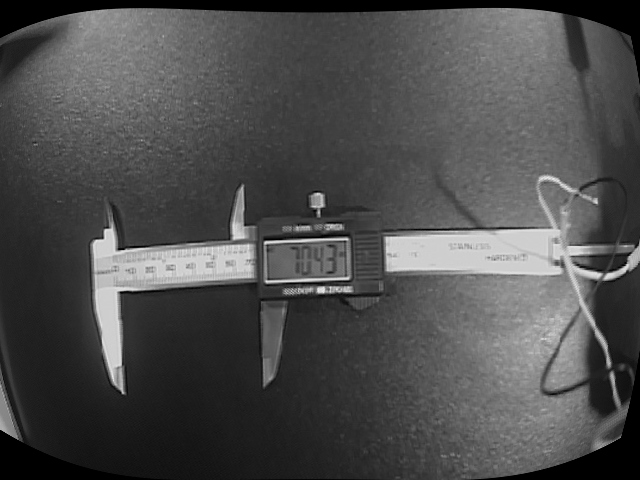
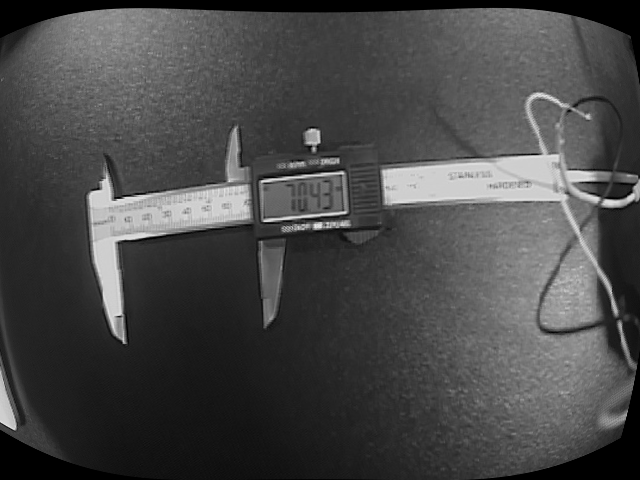
Improved refrence object length calculation and solved the problem due to different orientation as in test21/23.png

diff --git a/Distortion Processing/test.py b/Distortion Processing/test.py
@@ -1,130 +1,26 @@
-#!/usr/bin/env python
+from rospy import *
 
-'''
-camera calibration for distorted images with chess board samples
-reads distorted images, calculates the calibration and write undistorted images
-usage:
-    calibrate.py [--debug <output path>] [--square_size] [<image mask>]
-default values:
-    --debug:    ./output/
-    --square_size: 1.0
-    <image mask> defaults to ../data/left*.jpg
-'''
+if(color_red==True):
+    
+    while(area_red!=True and shapeIdentifier(shapeIdentifier('TRI_R','RECT_R',1,0)):
+        
+            rosservice call /joint_command -- rad servo_id i #Create a for loop to increment 'i' from -pi/2 to pi/2
+            
+    if(area_red==True and shapeIdentifier()==True):
+        
+        rosservice call /joint_command -- rad 1 2.0 #Open Gripper which is Servo 1
+        
+        while(area_red>400 and area<800):
+            rosservice call /joint_command -- rad 3 2.0 #Move servo 3 closer to the red colour until area==800
+        rosservice call /joint_command -- rad 1 1.0 #Close Gripper as it should now have the red object
+        
+    if(area_red!=0): # To check if the red object has been picked up
+        #Repeat Line 5-9, until the red object is picked up
+    rosservice call /joint_command -- rad 2 2.0 #Make the arm return to the initial position(2.0)
+    rosservice call /joint_command -- rad 3 2.0 #Make the arm return to the initial position(2.0)
+    rosservice call /joint_command -- rad 3 2.8 #Turn the arm 90˚ to reach the platform where the component can be dropped
+    rosservice call /joint_command -- rad 1 2.0 #Open the gripper
+    #Come back to this position and repeat this process
 
-# Python 2/3 compatibility
-from __future__ import print_function
+        
 
-import numpy as np
-import cv2 as cv
-
-# local modules
-from common import splitfn
-
-# built-in modules
-import os
-
-if __name__ == '__main__':
-    import sys
-    import getopt
-    from glob import glob
-
-    args, img_mask = getopt.getopt(sys.argv[1:], '', ['debug=', 'square_size=', 'threads='])
-    args = dict(args)
-    args.setdefault('--debug', './output/')
-    args.setdefault('--square_size', 1.0)
-    args.setdefault('--threads', 4)
-    if not img_mask:
-        img_mask = '*.jpg'  # default
-    else:
-        img_mask = img_mask[0]
-
-    img_names = glob(img_mask)
-    debug_dir = args.get('--debug')
-    if debug_dir and not os.path.isdir(debug_dir):
-        os.mkdir(debug_dir)
-    square_size = float(args.get('--square_size'))
-
-    pattern_size = (5, 5)
-    pattern_points = np.zeros((np.prod(pattern_size), 3), np.float32)
-    pattern_points[:, :2] = np.indices(pattern_size).T.reshape(-1, 2)
-    pattern_points *= square_size
-
-    obj_points = []
-    img_points = []
-    h, w = cv.imread(img_names[0], 0).shape[:2]  # TODO: use imquery call to retrieve results
-
-    def processImage(fn):
-        print('processing %s... ' % fn)
-        img = cv.imread(fn, 0)
-        if img is None:
-            print("Failed to load", fn)
-            return None
-
-        assert w == img.shape[1] and h == img.shape[0], ("size: %d x %d ... " % (img.shape[1], img.shape[0]))
-        found, corners = cv.findChessboardCorners(img, pattern_size)
-        if found:
-            term = (cv.TERM_CRITERIA_EPS + cv.TERM_CRITERIA_COUNT, 30, 0.1)
-            cv.cornerSubPix(img, corners, (5, 5), (-1, -1), term)
-
-        if debug_dir:
-            vis = cv.cvtColor(img, cv.COLOR_GRAY2BGR)
-            cv.drawChessboardCorners(vis, pattern_size, corners, found)
-            path, name, ext = splitfn(fn)
-            outfile = os.path.join(debug_dir, name + '_chess.png')
-            cv.imwrite(outfile, vis)
-
-        if not found:
-            print('chessboard not found')
-            return None
-
-        print('           %s... OK' % fn)
-        return (corners.reshape(-1, 2), pattern_points)
-
-    threads_num = int(args.get('--threads'))
-    if threads_num <= 1:
-        chessboards = [processImage(fn) for fn in img_names]
-    else:
-        print("Run with %d threads..." % threads_num)
-        from multiprocessing.dummy import Pool as ThreadPool
-        pool = ThreadPool(threads_num)
-        chessboards = pool.map(processImage, img_names)
-
-    chessboards = [x for x in chessboards if x is not None]
-    for (corners, pattern_points) in chessboards:
-        img_points.append(corners)
-        obj_points.append(pattern_points)
-
-    # calculate camera distortion
-    rms, camera_matrix, dist_coefs, rvecs, tvecs = cv.calibrateCamera(obj_points, img_points, (w, h), None, None)
-
-    print("\nRMS:", rms)
-    print("camera matrix:\n", camera_matrix)
-    print("distortion coefficients: ", dist_coefs.ravel())
-
-    # undistort the image with the calibration
-    print('')
-    for fn in img_names if debug_dir else []:
-        path, name, ext = splitfn(fn)
-        img_found = os.path.join(debug_dir, name + '_chess.png')
-        outfile = os.path.join(debug_dir, name + '_undistorted.png')
-
-        img = cv.imread(img_found)
-        img2=cv.imread('test2.png')
-        if img is None:
-            continue
-
-        h, w = img.shape[:2]
-        newcameramtx, roi = cv.getOptimalNewCameraMatrix(camera_matrix, dist_coefs, (w, h), 1, (w, h))
-
-        dst = cv.undistort(img, camera_matrix, dist_coefs, None, newcameramtx)
-        dst2 = cv.undistort(img2, camera_matrix, dist_coefs, None, newcameramtx)
-
-#        # crop and save the image
-#        x, y, w, h = roi
-#        dst = dst[y:y+h, x:x+w]
-
-        print('Undistorted image written to: %s' % outfile)
-        cv.imwrite(outfile, dst)
-        cv.imwrite('cal.png',dst2)
-
-    cv.destroyAllWindows()

diff --git a/Task3_Test1.py b/Task3_Test1.py
@@ -22,6 +22,7 @@ class Example(QtGui.QWidget):
         self.X_Coordinate=0
         self.new_X=0
         self.new_Y=0
+        self.pipe_multiplier=1
         
         self.setGeometry(300, 200, 1000, 500)
         self.setWindowTitle('TASK 3')  
@@ -66,7 +67,7 @@ class Example(QtGui.QWidget):
         qbtn.move(800, 50)
         
     def Calculate(self): # Assumes that the x-cordinate is constant
-        objectDistance=(self.Y2-self.Y1)
+        objectDistance=math.sqrt((self.X2-self.X1)**2 + ((self.Y2-self.Y1)**2)) # This is a more accurate way to calculate distance than Y2-Y1
 #       print(objectDistance)
         actualDistance=37
         scale=actualDistance/(objectDistance)
@@ -77,14 +78,21 @@ class Example(QtGui.QWidget):
         self.X_Coordinate = X_ReferenceObject + (self.RequiredDistance/scale)
 #        self.radius=(self.X_Coordinate-self.X2)*(math.cos(self.angle))
         #IS RADIUS X2_COORDINATE-X2 OR USING THE RADIUS METHOD???
-        self.new_X=self.X2-((self.X_Coordinate-self.X2)*math.cos(self.angle)) 
-        self.new_Y=self.Y2+((self.X_Coordinate-self.X2)*math.sin(self.angle))
+        self.new_X=self.X2+self.pipe_multiplier*((self.X_Coordinate-self.X2)*math.cos(self.angle)) 
+        self.new_Y=self.Y2-self.pipe_multiplier*((self.X_Coordinate-self.X2)*math.sin(self.angle))
+        print(self.new_Y)
+        print(self.new_X)
         QtGui.QWidget.update(self)
         
     def SlopeCalculate(self):
         self.slope=(self.Y1-self.Y2)/(self.X2-self.X1)#Y1-Y2 as the Y Axis start from top and move to bottom so sign was reversed
+        self.pipe_orientation= (self.X2-self.X1)
+        if(self.pipe_orientation>0):
+            self.pipe_multiplier=1
+        else:
+            self.pipe_multiplier=-1
         self.angle=(math.atan(self.slope))
-        print(self.slope)
+        print(self.angle)
 #        -math.radians(80)+
 #        print((self.angle)*180/math.pi)
 #        self.angle=math.degrees(math.atan2(self.Y2 - self.Y1,self.X2 - self.X1))
@@ -110,11 +118,11 @@ class Example(QtGui.QWidget):
     def StoreValue1(self):
         self.Y1=self.y_cordinate
         self.X1=self.x_cordinate
-        print("Value 1 Stored",self.Y1,self.X1) 
+        print("Value 1 Stored",self.X1,self.Y1) 
     def StoreValue2(self):
         self.Y2=self.y_cordinate
         self.X2=self.x_cordinate
-        print("Value 2 Stored",self.Y2,self.X2)
+        print("Value 2 Stored",self.X2,self.Y2)
 
 
 def main():        

diff --git a/Distortion Processing/Distortion.py b/Distortion Processing/Distortion.py
@@ -44,7 +44,7 @@ for fname in images:
         #print(gray.shape[::-1])
        # print(imgpoints)
 
-img = cv2.imread('test16.png')
+img = cv2.imread('test15.png')
 h,w = img.shape[:2]
 newcameramtx, roi=cv2.getOptimalNewCameraMatrix(mtx,dist,(w,h),1,(w,h))
 
